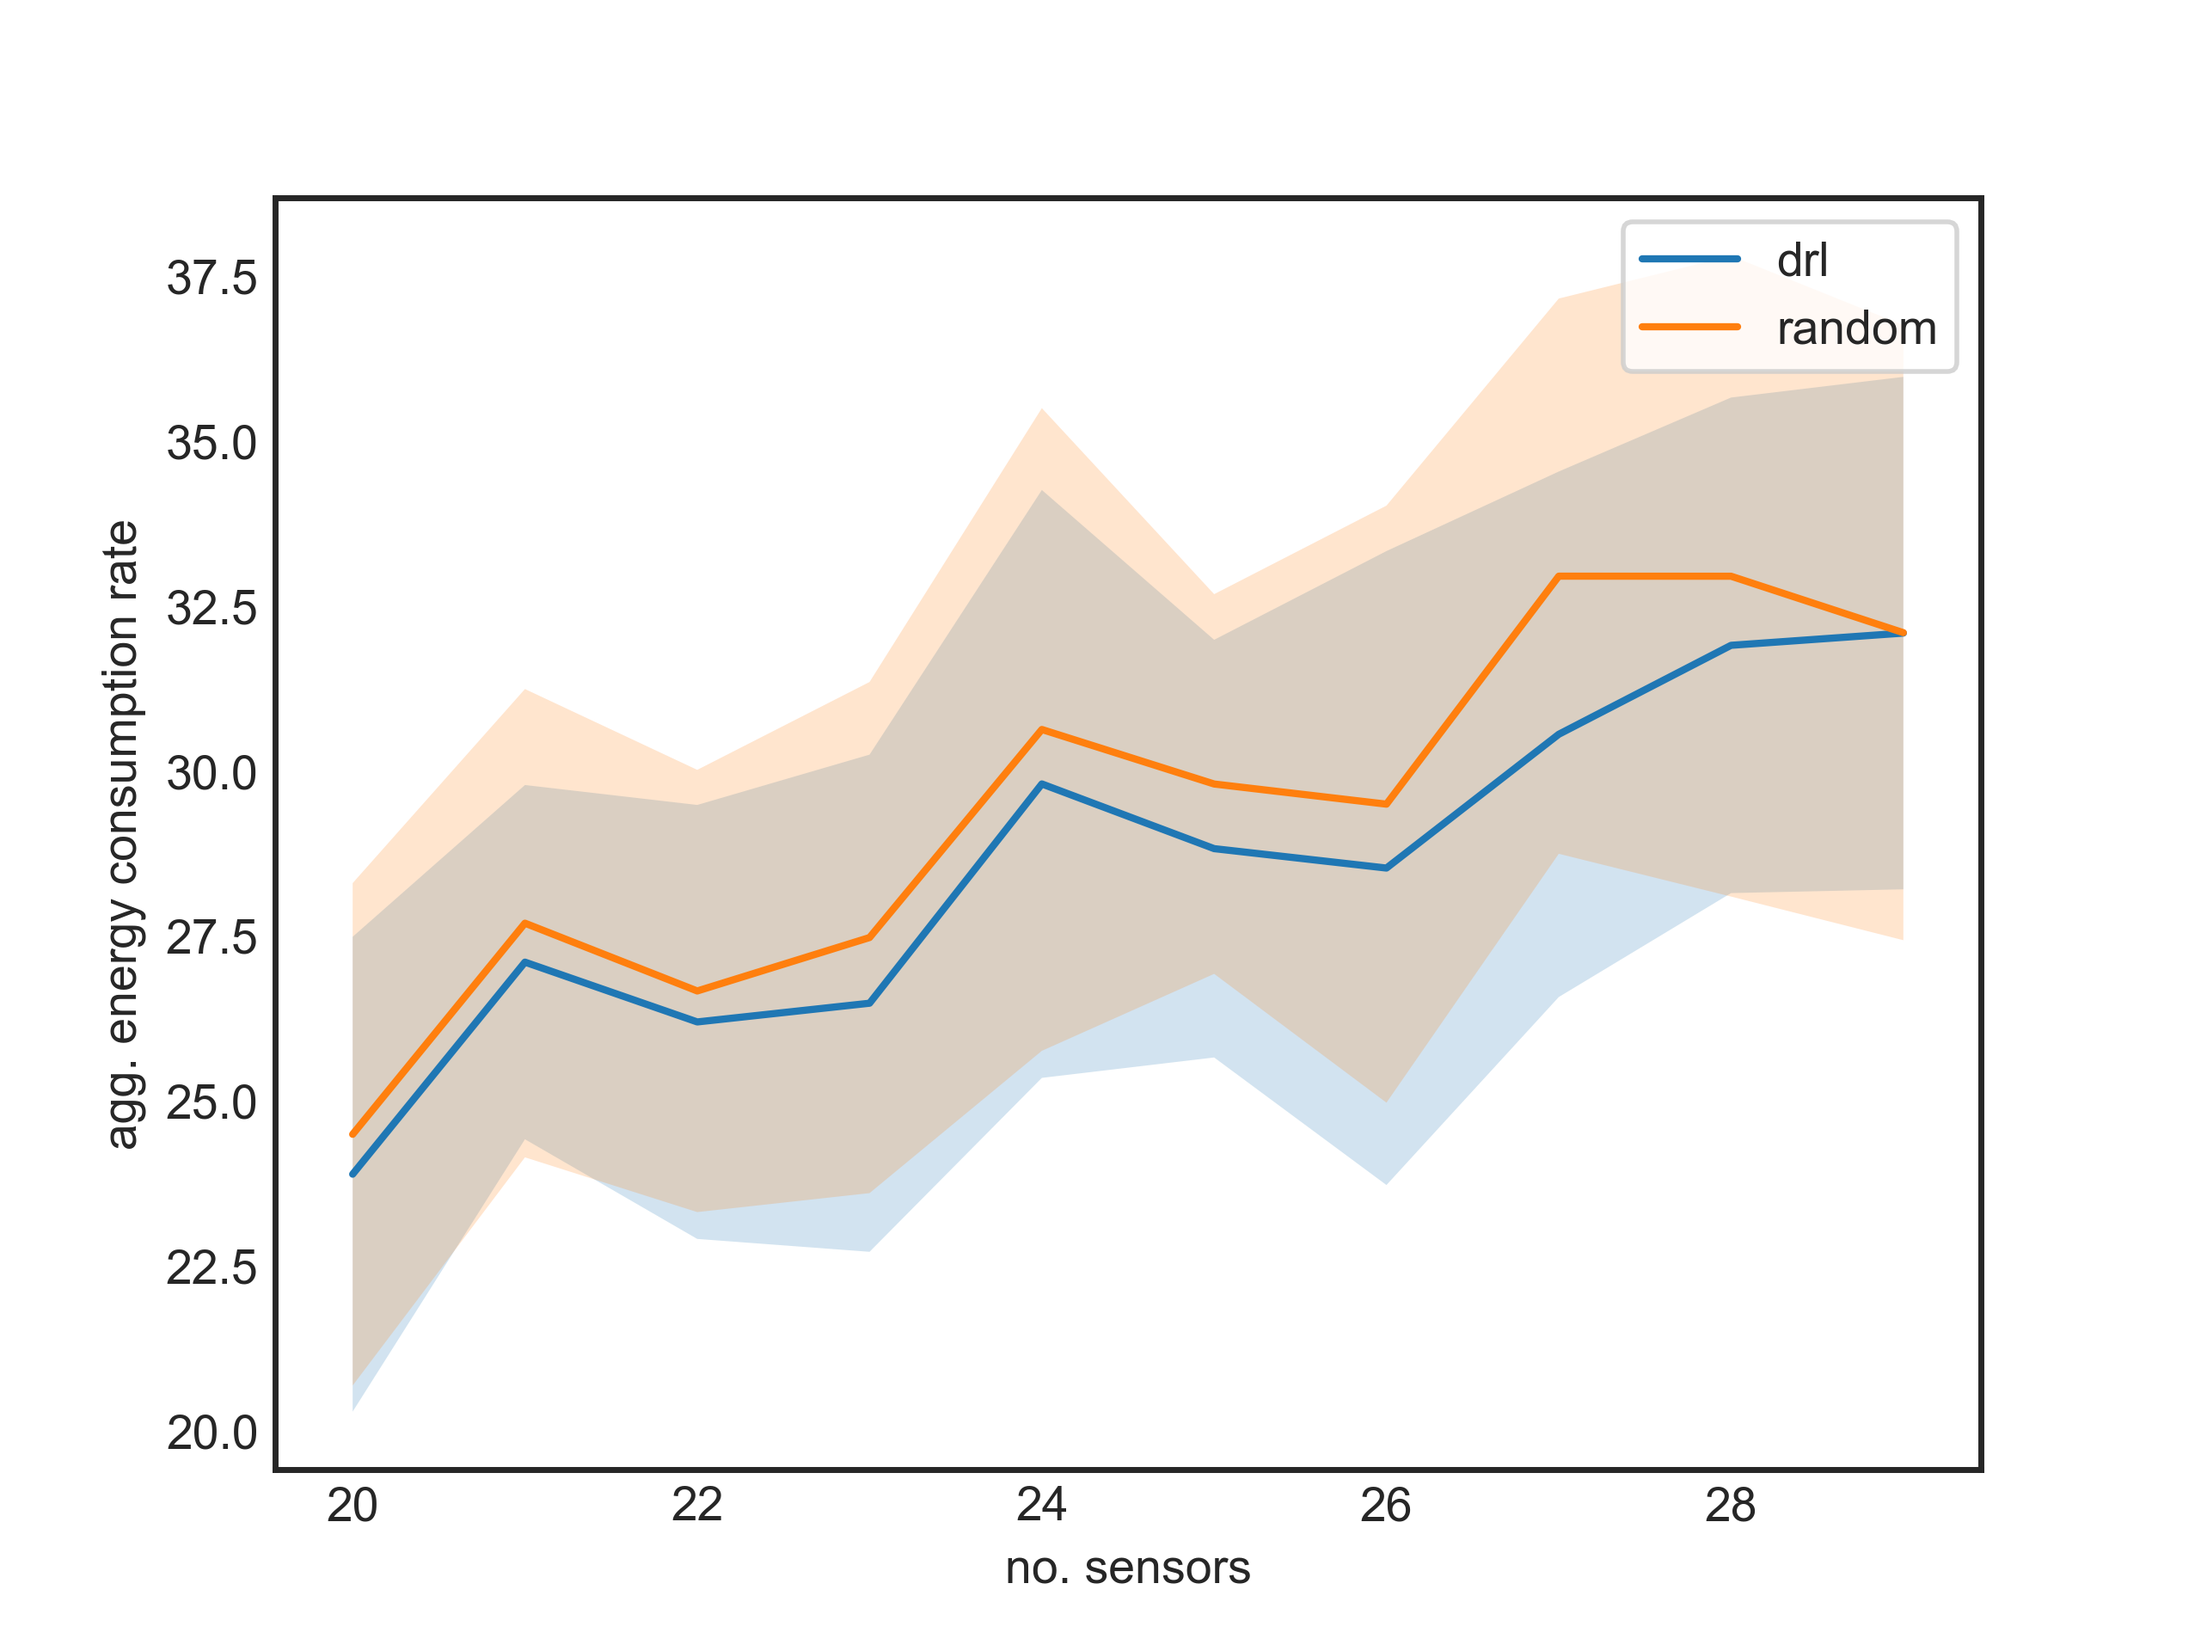
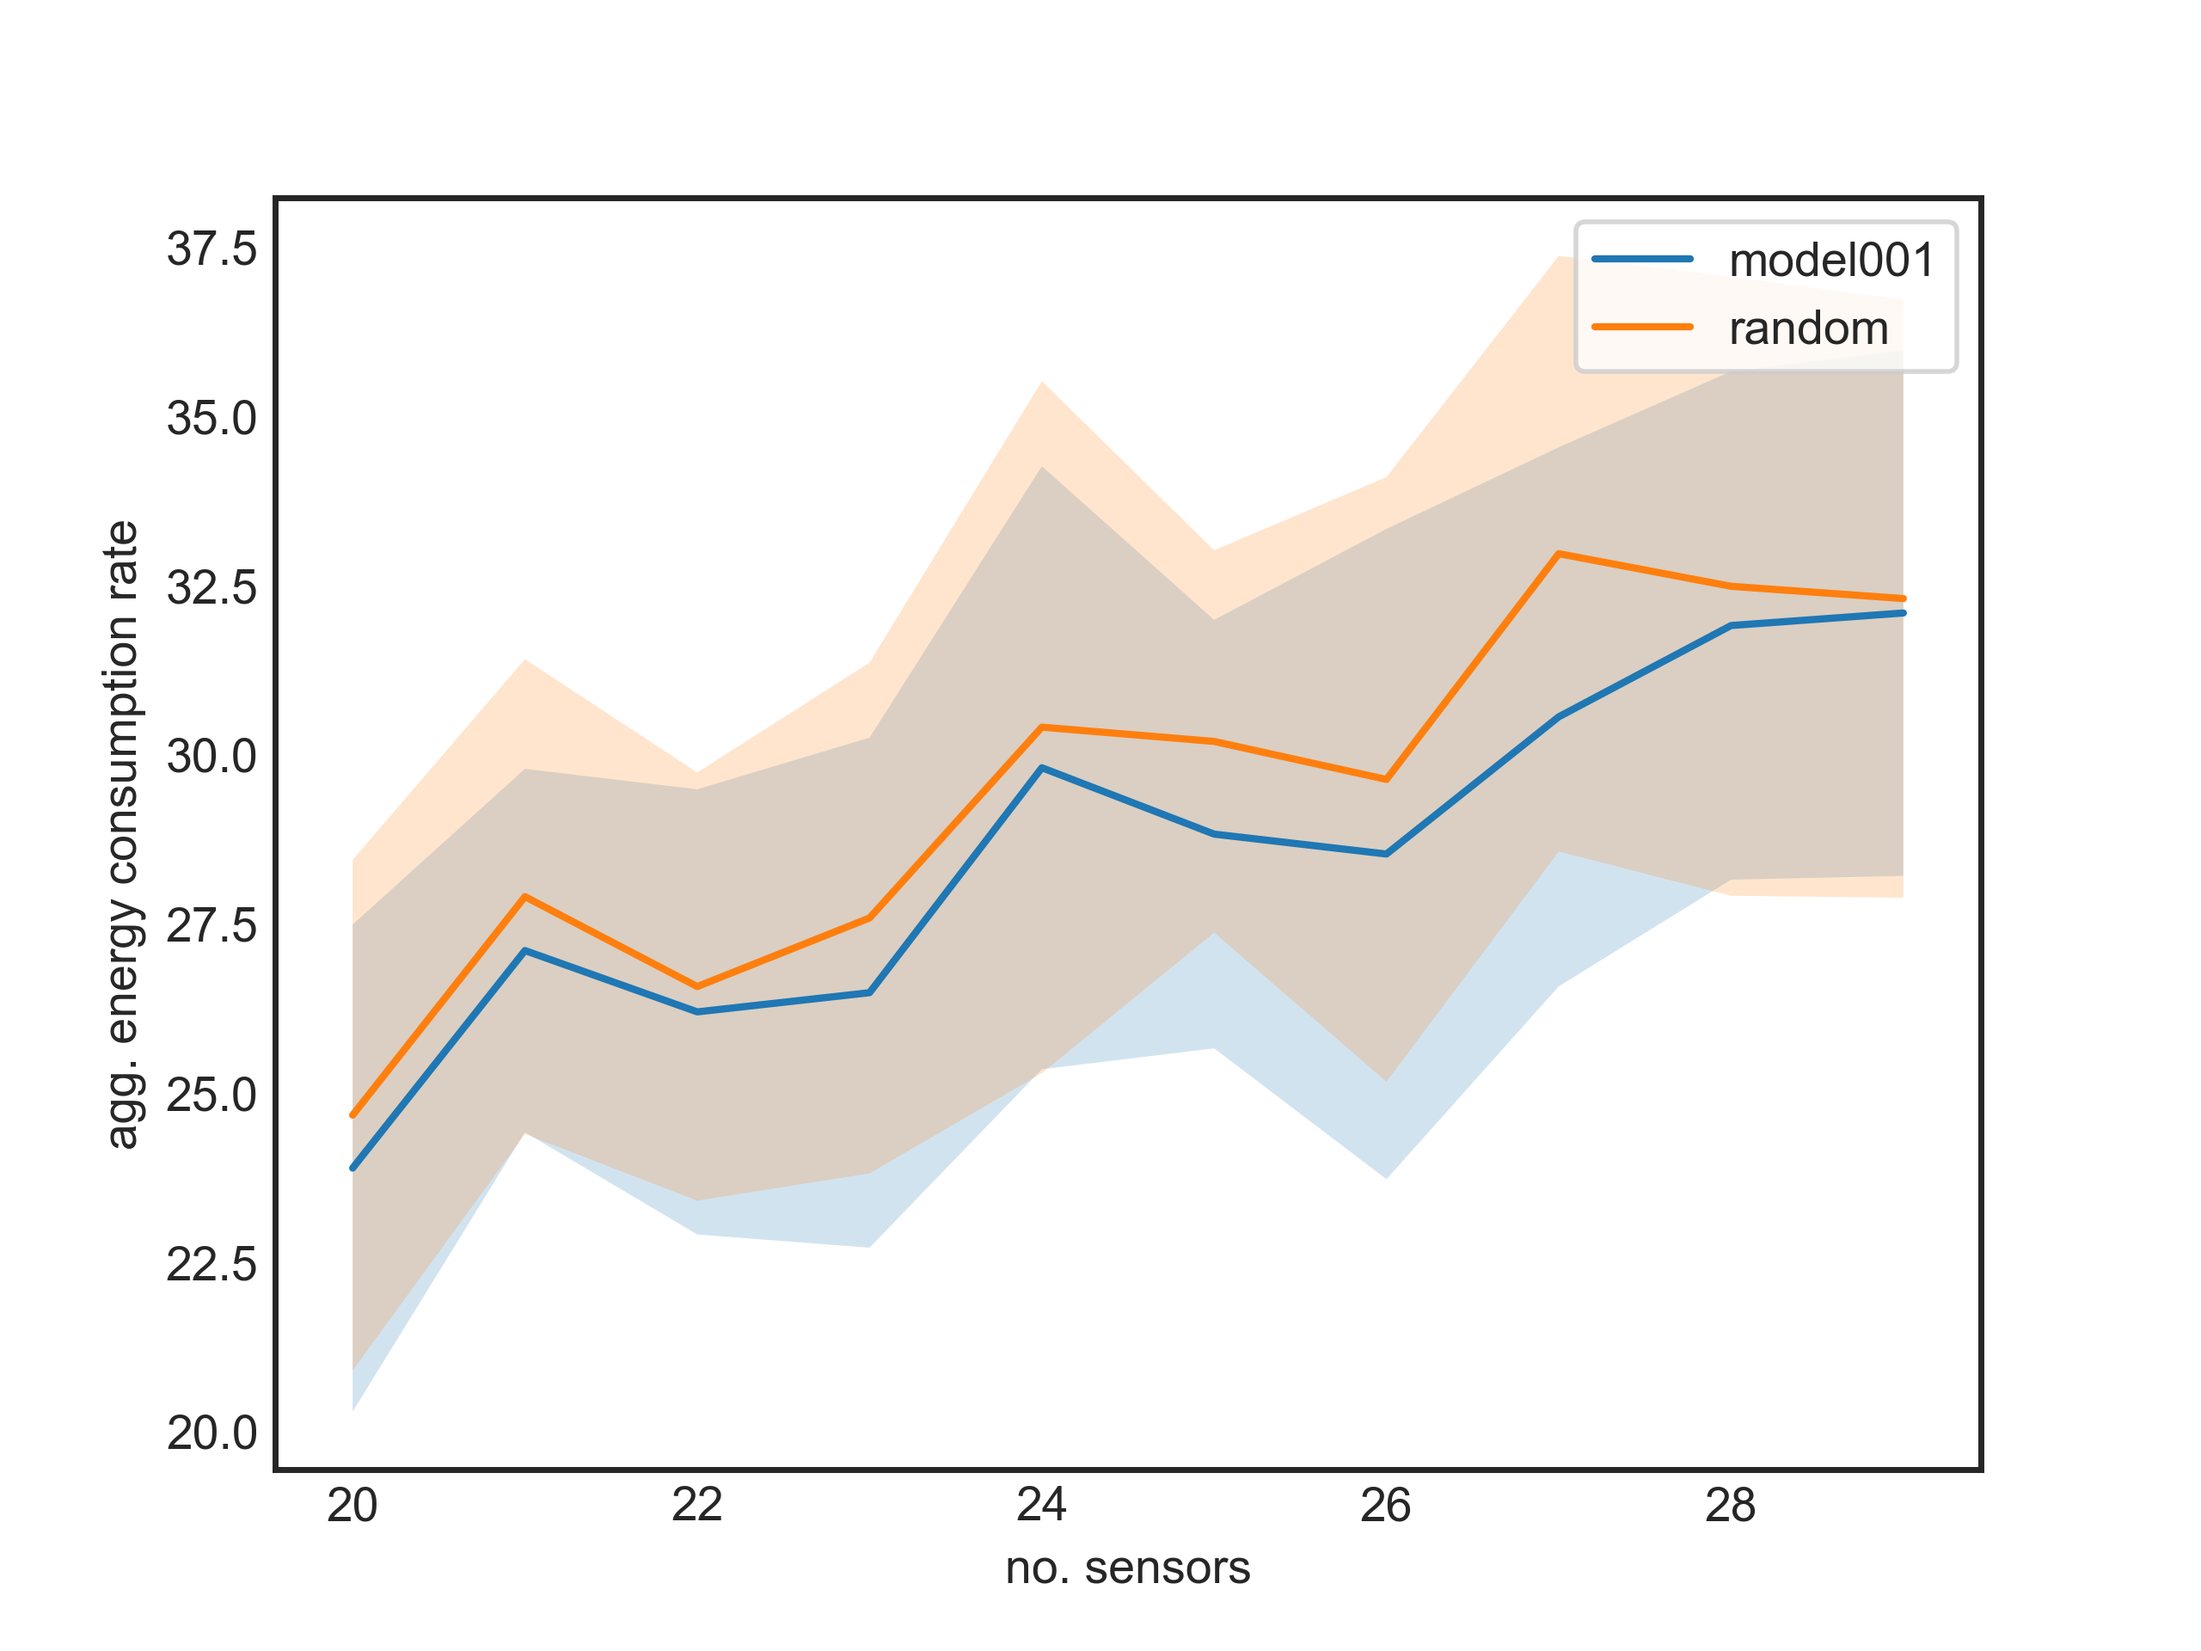
refactor experiment code

diff --git a/run.py b/run.py
@@ -1,7 +1,6 @@
 import sys
-sys.path.append('./drl')
+sys.path.insert(0, './model001')
 
-import random_strategy
 from utils import device, pdump, pload
 from utils import WRSNDataset
 from utils import WrsnParameters as wp, DrlParameters as dp
@@ -16,16 +15,11 @@ import matplotlib.pyplot as plt
 import argparse
 import os
 
-
-
-def run_random(data_loader, name, save_dir):
-    save_dir = os.path.join(save_dir, name)
-    return random_strategy.validate(data_loader, save_dir)
-
+import model001
 
 solvers = {
-    "drl": run_drl,
-    "random": run_random
+    "model001": model001.run,
+    "random": model001.run_random
 }
 
 
@@ -47,22 +41,28 @@ def plot_mean_std(x, data, xlabel, ylabel, title, save_dir, plot_std=True):
     plt.close('all')
     
 
-def run_ept_1_2(ept, seed=123, save_dir='results', rerun=False):
+def run_ept_1_2(ept, seed=123, save_dir='results', rerun=[]):
+    used_solvers = ec.ept2.solvers if ept == 2 else ec.ept1.solvers
+
     def run_ept_1(save_dir):
         num_targets = ec.ept1.num_targets
         min_num_sensors = ec.ept1.min_num_sensors
         max_num_sensors = ec.ept1.max_num_sensors
-        used_solvers = ec.ept1.solvers
+        wp.k_bit = ec.ept1.k_bit
+        
         res = defaultdict(list)
         for num_sensors in range(min_num_sensors, max_num_sensors):
             test_data = WRSNDataset(num_sensors, num_targets, ec.ept1.test_size, seed)
             data_loader = DataLoader(test_data, 1, False, num_workers=0)
             for name, solver in solvers.items():
                 if name in used_solvers:
-                    ret = solver(data_loader, name, save_dir)
-                    res[name].append((num_sensors, ret))
+                    if not os.path.isfile(os.path.join(save_dir, f'{name}.pickle')) or name in rerun:
+                        print(f"running on {num_sensors, name}")
+                        ret = solver(data_loader, name, save_dir)
+                        res[name].append((num_sensors, ret))
 
-        pdump(res, 'data.pickle', save_dir)
+        for key, value in res.items():                
+            pdump(value, f'{key}.pickle', save_dir)
 
     def run_ept_2(save_dir):
         num_targets = ec.ept2.num_targets
@@ -70,30 +70,36 @@ def run_ept_1_2(ept, seed=123, save_dir='results', rerun=False):
         min_prob = ec.ept2.min_prob
         max_prob = ec.ept2.max_prob
         step = ec.ept2.step
-        used_solvers = ec.ept2.solvers
+
         res = defaultdict(list)
+
         for prob in np.arange(min_prob, max_prob, step):
             test_data = WRSNDataset(num_sensors, num_targets, ec.ept2.test_size, seed)
             data_loader = DataLoader(test_data, 1, False, num_workers=0)
             wp.k_bit = ec.ept2.k_bit * prob
+
             for name, solver in solvers.items():
                 if name in used_solvers:
-                    ret = solver(data_loader, name, save_dir)
-                    res[name].append((prob, ret))
-
-        pdump(res, 'data.pickle', save_dir)
-
+                    if not os.path.isfile(os.path.join(save_dir, f'{name}.pickle')) or name in rerun:
+                        print(f"running on {prob, name}")
+                        ret = solver(data_loader, name, save_dir)
+                        res[name].append((prob, ret))
+            
+        for key, value in res.items():                
+            pdump(value, f'{key}.pickle', save_dir)
 
     save_dir = os.path.join(save_dir, f'ept_{ept}')
     os.makedirs(save_dir, exist_ok=True)
-    print(save_dir)
-    if not os.path.isfile(os.path.join(save_dir, 'data.pickle')) or rerun:
-        if ept == 1:
-            run_ept_1(save_dir)
-        elif ept == 2:
-            run_ept_2(save_dir)
+    
+    if ept == 1:
+        run_ept_1(save_dir)
+    elif ept == 2:
+        run_ept_2(save_dir)
 
-    data = pload('data.pickle', save_dir)
+    data = {}
+    for name in used_solvers:
+        data[name] = pload(f'{name}.pickle', save_dir)
+
     lifetimes = dict()
     node_failures = dict()
     aggregated_ecr = dict()
@@ -134,7 +140,7 @@ if __name__ == '__main__':
     parser.add_argument('--ept', '-e', dest='epts', 
                         action='append', required=True, type=int)
     parser.add_argument('--config', '-cf', default=None, type=str)
-    parser.add_argument('--rerun', action='store_true')
+    parser.add_argument('--rerun', dest='rerun', nargs='*')
 
     args = parser.parse_args()
 
@@ -147,7 +153,14 @@ if __name__ == '__main__':
     wp.from_file(ec.wrsn_config)
     dp.from_file(ec.drl_config)
 
+    if args.rerun is None:
+        rerun = []
+    elif len(args.rerun) == 0:
+        rerun = solvers.keys()
+    else:
+        rerun = args.rerun 
+    
     for ept in set(args.epts):
         if ept == 1 or ept == 2:
-            run_ept_1_2(ept, args.seed, save_dir=save_dir, rerun=args.rerun)
+            run_ept_1_2(ept, args.seed, save_dir=save_dir, rerun=rerun)
 

diff --git a/model001.py b/model001.py
@@ -6,18 +6,25 @@ from utils import WRSNDataset
 from utils import WrsnParameters as wp, DrlParameters as dp
 from model import MCActor
 import main as model001
+import os
+import torch
+import random_strategy
 
-def run_model001(data_loader, name, save_dir):
+def run(data_loader, name, save_dir):
     actor = MCActor(dp.MC_INPUT_SIZE,
                     dp.SN_INPUT_SIZE,
                     dp.hidden_size,
                     dp.dropout).to(device)
 
     save_dir = os.path.join(save_dir, name)
-    checkpoint = ec.checkpoint
+    checkpoint = 'model001/checkpoints/mc_20_10_0/21'
     path = os.path.join(checkpoint, 'actor.pt')
     actor.load_state_dict(torch.load(path, device))
 
-    ret = drl.validate(data_loader, actor, render=False)
+    ret = model001.validate(data_loader, actor, render=False)
 
     return ret
+
+def run_random(data_loader, name, save_dir):
+    save_dir = os.path.join(save_dir, name)
+    return random_strategy.validate(data_loader, save_dir)

diff --git a/ept_config.py b/ept_config.py
@@ -14,6 +14,7 @@ class Ept1(Config):
     test_size = 10
     min_num_sensors = 20
     max_num_sensors = 30
+    k_bit = 8000000
 
 class Ept2(Config):
     __dictpath__ = 'ec.ept2'
